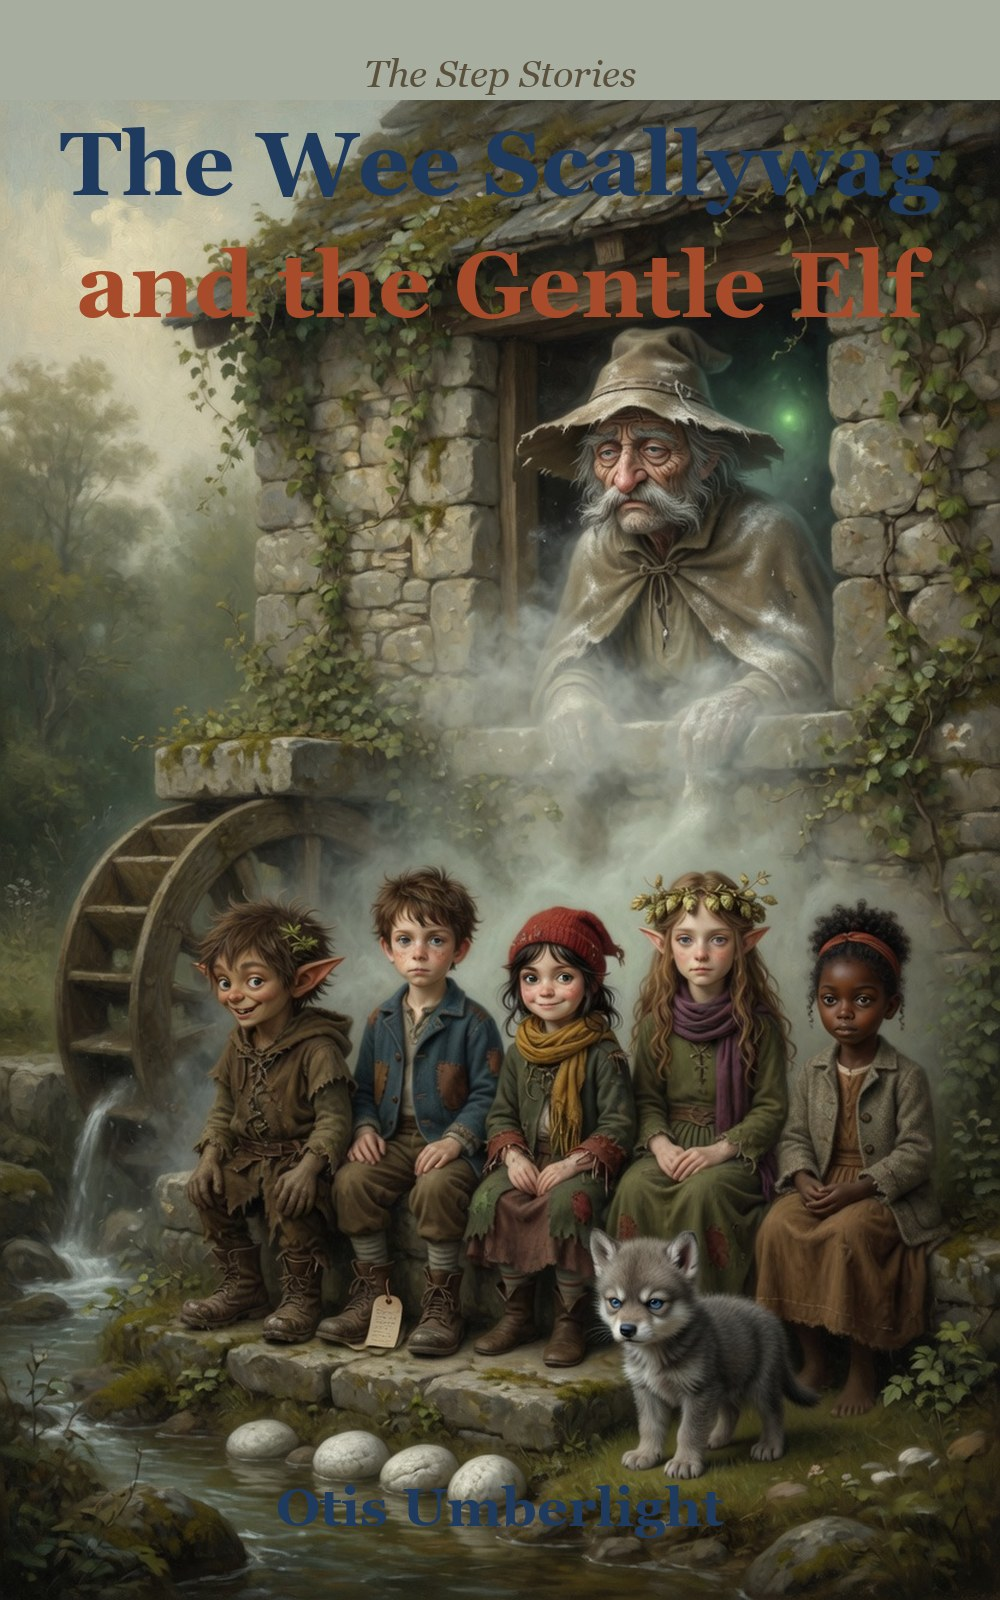
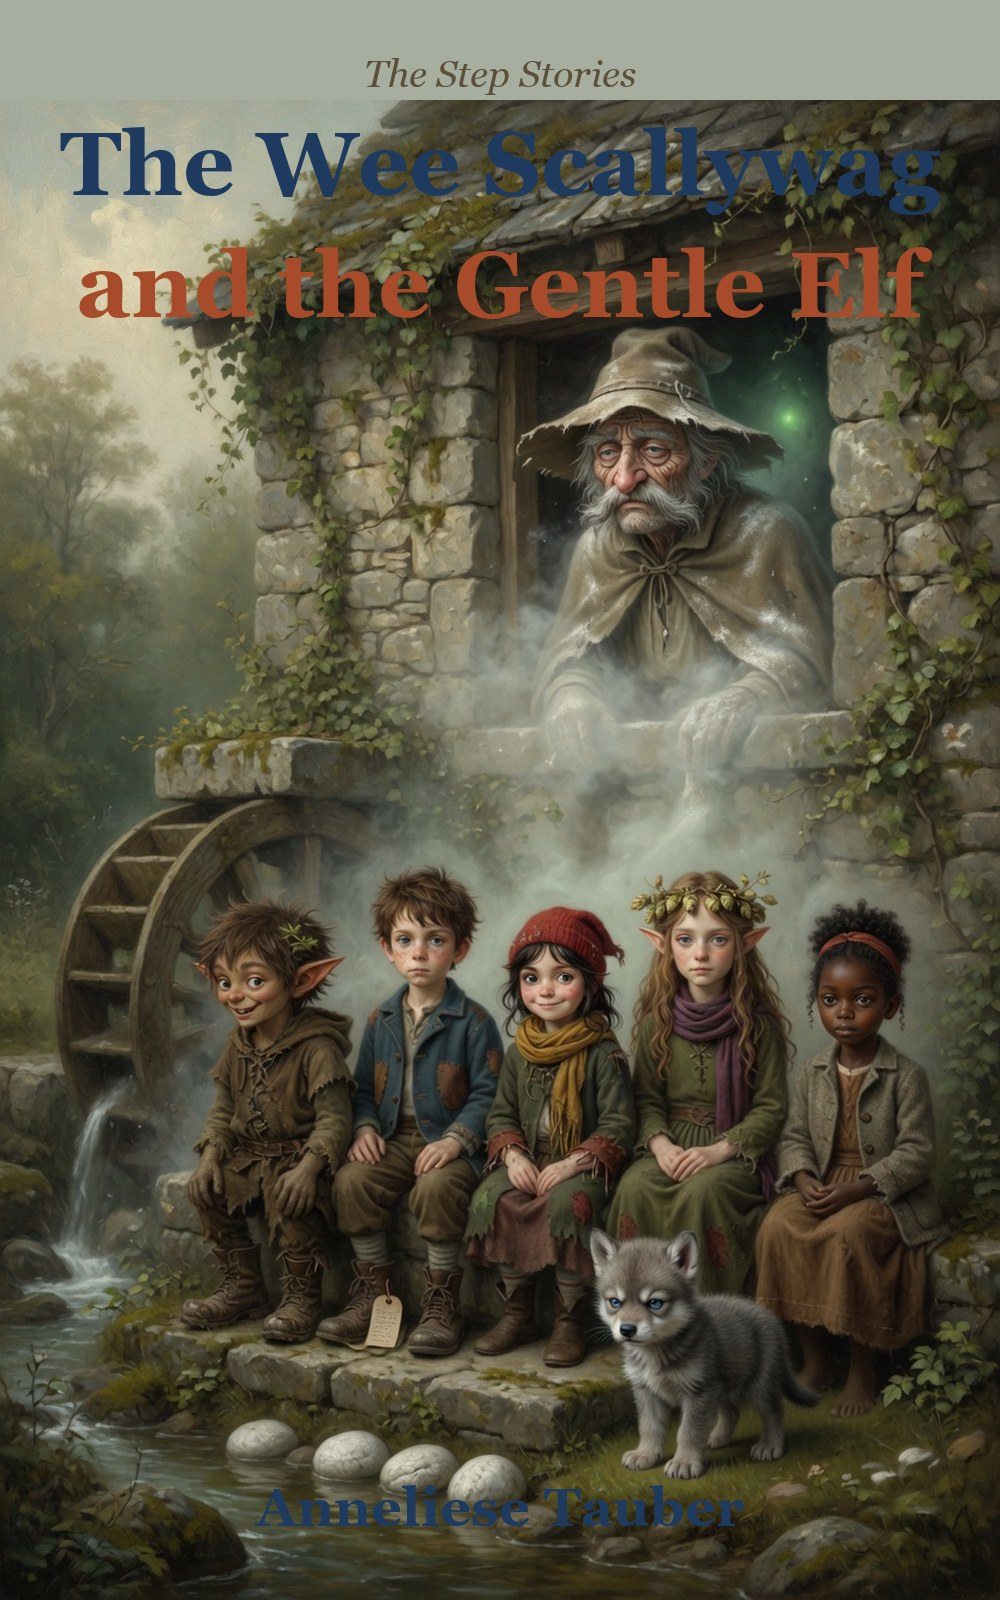
Wee Scallywag: Also by Anneliese Tauber page (Bavarian Cooking), contents entries, cover with new author name; notes and KDP file updated

Changed region(s): [[0.248, 0.9062, 0.744, 0.9688]]

diff --git a/notes/LOTHAR_RULES.md b/notes/LOTHAR_RULES.md
@@ -16,7 +16,7 @@ Repo root on the PC: `D:\My Books for Amazon`. Git directory: `C:\Users\lomus\gi
   - **Lothar J. Musiol writing as Quentin Edmund Darling (Q.E.D.)**: Lolly Wren's Curious Science Adventures books.
   - **Lothar J. Musiol writing as Romuald Livingston**: *In Love with Murder, Actually*.
   - **Lothar J. Musiol writing as George Herbert Fontaine**: *Protocol Flamingo*.
-  - **Anneliese Tauber** (a Bavarian mother of four): *Bavarian Cooking Made Simple* and *The Wee Scallywag and the Gentle Elf* (The Step Stories, children’s STEM fantasy; decided 11 Oct 2026 to build one family-friendly brand). Never list her books in Lothar's Also-by, and never mention Lothar’s name in her books. Her books have no Also-by page until The Step Stories Book 2 is out; then her Also-by page lists only Anneliese Tauber books. Her About the Author is two or three warm sentences in the same voice (see the Bavarian Cooking and Step Stories docx).
+  - **Anneliese Tauber** (a Bavarian mother of four): *Bavarian Cooking Made Simple* and *The Wee Scallywag and the Gentle Elf* (The Step Stories, children’s STEM fantasy; decided 11 Oct 2026 to build one family-friendly brand). Never list her books in Lothar's Also-by, and never mention Lothar’s name in her books. Her Also-by page (from 11 Oct 2026, now that she has two books) lists only Anneliese Tauber books: Bavarian Cooking Made Simple and The Step Stories as they appear. It never lists Lothar’s books. Her About the Author is two or three warm sentences in the same voice (see the Bavarian Cooking and Step Stories docx).
 - Do not bring back retired titles or series names on any Also-by page. The retired list lives in `notes/ALSO_BY - canonical list.md`.
 
 ---
@@ -28,7 +28,7 @@ Repo root on the PC: `D:\My Books for Amazon`. Git directory: `C:\Users\lomus\gi
   - **Version B** (without Colin): every other book under Lothar's name. Both versions mention Gucci.
   - **Never** put either version on the Kevin Drew Peters books, on Auswandern, on Bavarian Cooking, or on The Wee Scallywag and the Gentle Elf.
 - Placement: replace an existing About the Author section; otherwise add one just before the Also-by page. If a book has no back matter, put About the Author at the end.
-- Every book gets a nice, inviting review line and an Also-by page, except where Identity forbids it (the Anneliese Tauber books: no Also-by until Step Stories Book 2 is out; Kevin Drew Peters books use only their own short list).
+- Every book gets a nice, inviting review line and an Also-by page, except where Identity forbids it (the Anneliese Tauber books: Also-by lists only Anneliese Tauber books; Kevin Drew Peters books use only their own short list).
 - Canonical Also-by list and order: `notes/ALSO_BY - canonical list.md`. Every Lothar-name book's Also-by page uses that list, leaves out the book itself, and keeps that book's own layout. Keep "Also in This Series" pages separate. Auswandern is listed under In German; its own docx has no Also-by page.
 
 ---

diff --git a/notes/ALSO_BY - canonical list.md b/notes/ALSO_BY - canonical list.md
@@ -7,7 +7,7 @@ Rules
 - Every book's "Also by Lothar J. Musiol" page uses the list below, in this order, and leaves out the book itself. Keep each book's own layout (heading style, group lines, bullets); only the titles change. Keep "Also in This Series" pages separate.
 - Every science book is listed under Lothar J. Musiol. Pen-name books carry "Lothar J. Musiol writing as X", matching their title pages.
 - Kevin Drew Peters books are a separate list. They never appear on a Lothar J. Musiol page, and a Kevin Drew Peters page lists only Kevin Drew Peters books, so nothing ties that pen name to Lothar's real name. (The 4 Oct list put both under How-To on Lothar-name pages; that is withdrawn.)
-- Not listed: Bavarian Cooking Made Simple and The Wee Scallywag and the Gentle Elf (pen name Anneliese Tauber, a Bavarian mother of four; never in Lothar J. Musiol Also-by lists; her books have no Also-by page until The Step Stories Book 2 is out, then a separate Anneliese Tauber-only list of her two series) and The Will Is Not the Legacy, Actually (draft). Add Bavarian Cooking when it is finished.
+- Not listed: Bavarian Cooking Made Simple and The Wee Scallywag and the Gentle Elf (pen name Anneliese Tauber, a Bavarian mother of four; never in Lothar J. Musiol Also-by lists; her books carry a separate Also-by page listing only Anneliese Tauber books (decided 11 Oct 2026): Bavarian Cooking Made Simple and The Wee Scallywag and the Gentle Elf. Bavarian Cooking’s own docx is being worked on elsewhere and does not have its page yet) and The Will Is Not the Legacy, Actually (draft). Add Bavarian Cooking when it is finished.
 - Auswandern (published) is listed under In German; its own docx has no Also-by page and was not changed.
 
 ## Also by Lothar J. Musiol

diff --git a/The_Wee_Scallywag_and_the_Gentle_Elf/KDP_Description.md b/The_Wee_Scallywag_and_the_Gentle_Elf/KDP_Description.md
@@ -44,6 +44,6 @@ Includes ten experiments to try and a guide for parents and teachers.
 - Format: docx only (Kindle). No tables. Images inline. Cover embedded about 1000x1600 (a larger separate KDP cover file is still to be made from `Step_Stories_Pics_Final/00_cover_art.jpg`).
 - **AI disclosure:** KDP asks whether text or images were AI-generated. The illustrations were AI-generated; answer the question accordingly and truthfully. Do not put tool names in the book (rule in LOTHAR_RULES).
 - Back cover: text only on a single colour (not made yet).
-- Also-by: none until Book 2 is out (Lothar, 11 Oct 2026).
+- Also-by: "Also by Anneliese Tauber" lists Bavarian Cooking Made Simple (Lothar, 11 Oct 2026). CHECK: that book is still a draft, so the page has no live link yet.
 - Science check by a teacher or physicist (tunnelling, tides, genes), and a safety read by a teacher or parent, before upload.
 - Do not claim exam results or curriculum coverage in the listing. The standards codes in `Parent_Teacher_Guide.md` are unverified and are not in the book.
